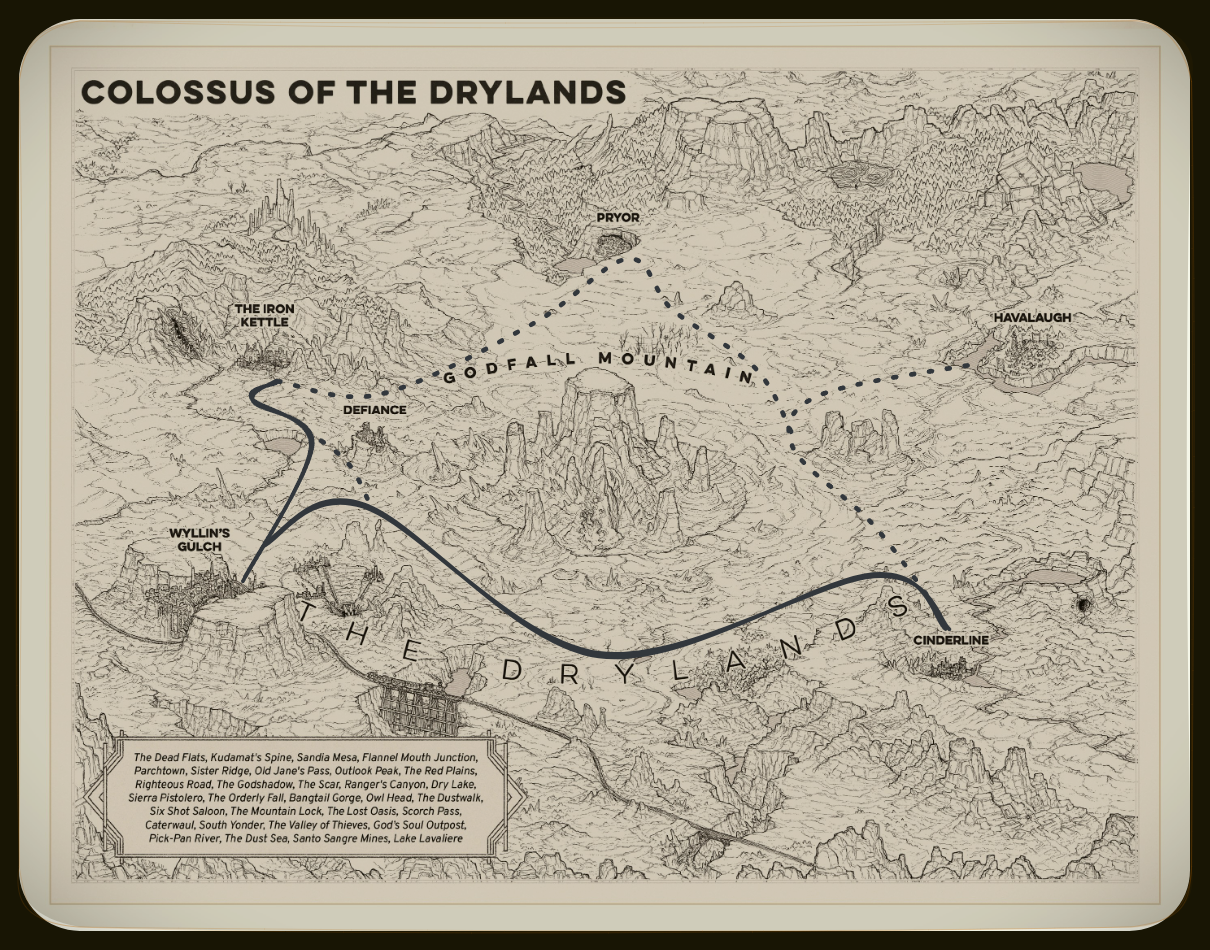
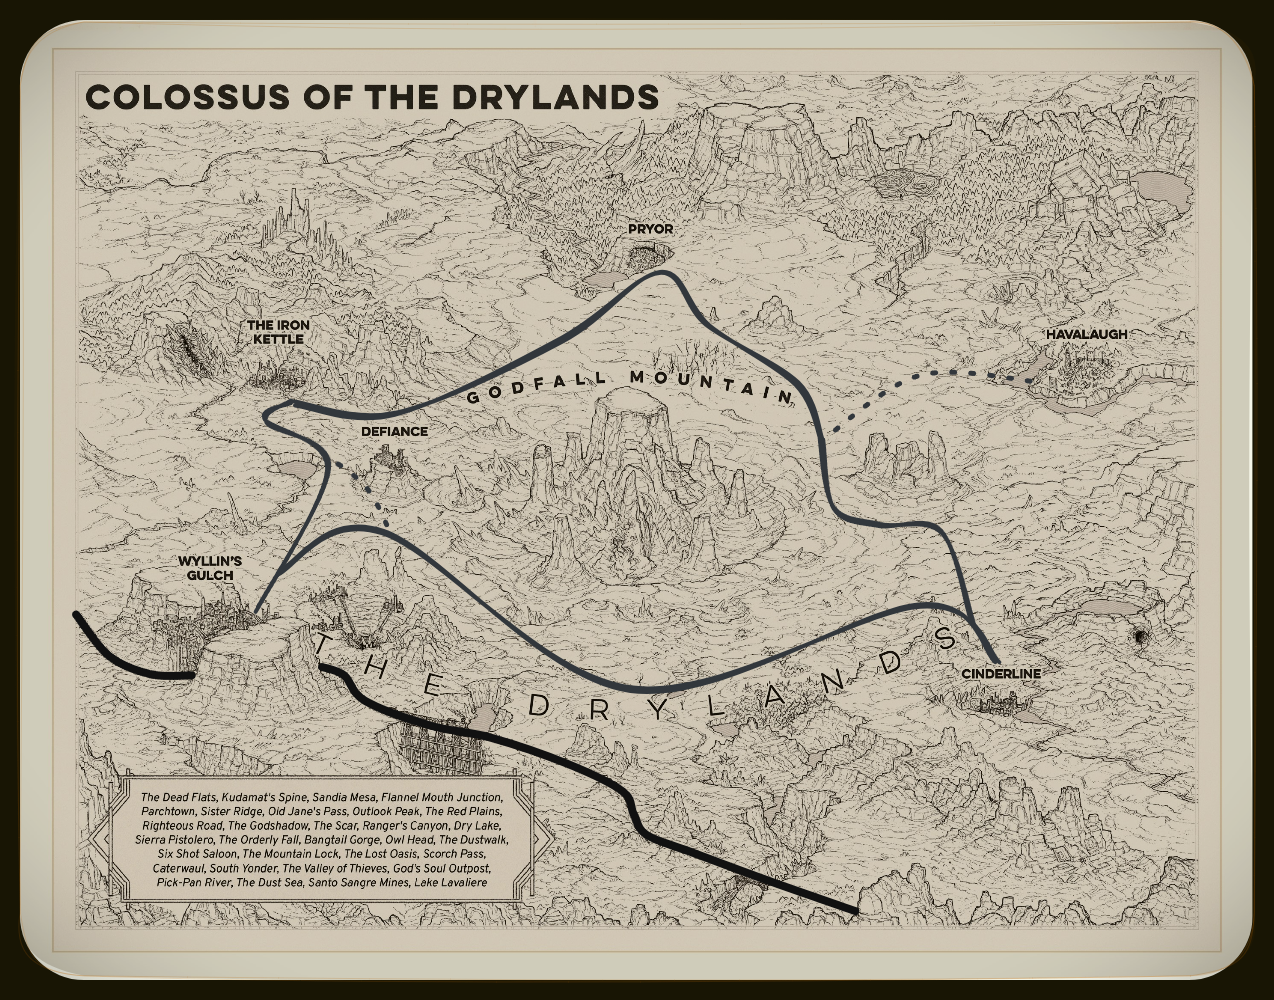
Published multiple files

diff --git a/content/Player Characters/Imke/Köter/Sabotage und Rettungsaktion in Pryor.md b/content/Player Characters/Imke/Köter/Sabotage und Rettungsaktion in Pryor.md
@@ -1,0 +1,17 @@
+---
+{"publish":true,"created":"2025-09-05T01:02:47.139+02:00","modified":"2025-09-05T01:20:23.095+02:00","cssclasses":""}
+---
+
+Jimmy erhielt einen Auftrag von der [[The Drylands/Corporation/Smudgehill Mining Group]], er und ein paar andere Outlaws die sich geraden in [[The Drylands/Major Outposts/Wyllin's Gulch]] befinden sollen eine Lieferung Essentia-Rafinerieteilen und Adamant-Bohrern von dem [[The Drylands/Major Outposts/Der Eisenkessel\|Eisenkessel]] nach [[The Drylands/Major Outposts/Pryor]] zerstören. So soll verhindert werden, dass Pryor unabhängiger von den Essentia Lieferungen von SMG wird und ihr Essentia vielleicht sogar lieber aus dem Eisenkessel beziehen. 
+
+Die 9 Outlaws, die ausgesucht wurden sollen die Lieferung, die sich momentan in einem Lagerhaus befindet, mit 60kg Dynamit unbrauchbar machen. Alle Outlaws kannten sich untereinander nur mit Codenamen, die von der Mining Group verteilt wurden.
+
+Der Smudgehill Mining Group sind die ausgewählten Outlaws jedoch schon länger ein Dorn im Auge und so wollen sie zwei Fliegen mit einer Klappe treffen; Die Outlaws bekommen manipuliertes instabiles Dynamit und werden so unschädlich gemacht und die Mining Group streicht ein fettes Kopfgeld für alle erledigten Outlaws ein. Das Lagerhaus enthielt zwar nie die benannten Raffinerie und Bohrteile, es gehört jedoch der [[The Drylands/Corporation/Iron Tusk Corp.]], ist also akzeptabler Kollateralschaden.
+
+Eigentlich sollte Jimmy bei dem Auftrag aufpassen und schmiere stehen, Ray hat jedoch kurz bevor Jimmy aufbrechen wollte stattdessen Köter losgeschickt. Warum er das getan hat ist nicht ganz klar, aber Jimmy schien mit dieser Entscheidung äußerst unzufrieden zu sein.
+
+Nach der Explosion konnte die Mining Group für 7 der Outlaws das Kopfgeld eintreiben (2 Gefangene, 5 Leichen), wofür sie insgesamt 30 Säcke Gold erhielt. Die Übrigen zwei Outlaws, Codename "Natter" und James "Jimmy" Dow, Codename "Katze", wurden jedoch seit dem "Unglück" nicht mehr gesehen.
+
+Die Mining Group wusste jedoch nichts davon, dass statt Jimmy Köter geschickt wurde, der Auftrag war explizit an Jimmy gerichtet worden. Köter hat die Späher-Rolle von Jimmy übernommen und stand für den Rest schmiere. Köter wurde durch die Explosion nur leicht verletzt und fand den schwer verletzte, aber noch lebendigen, Outlaw, Codename "Natter" im nahegelegenen Fluss. Köter hat ihn zu Natters Lager gebracht, wo ein Clank Mädchen die beiden verarztet hat.
+
+Als Köter wieder bei Ray und den anderen war, hört er nur von weitem einen Schuss. Im Lager findet er einen unglaublich wütenden Ray mit einem rauchenden Revolver in der Hand, Butch der Antworten verlangt und Jimmy mit einem Loch im Kopf auf dem staubigen Boden.

diff --git a/content/Player Characters/Janni/Thomas/Sabotage-job in Pryor.md b/content/Player Characters/Janni/Thomas/Sabotage-job in Pryor.md
@@ -1,0 +1,13 @@
+---
+{"publish":true,"created":"2025-09-05T00:28:15.545+02:00","modified":"2025-09-05T01:16:56.422+02:00","cssclasses":""}
+---
+
+Thomas erhält einen Auftrag von der [[The Drylands/Corporation/Smudgehill Mining Group]], er und ein paar andere Outlaws die sich geraden in [[The Drylands/Major Outposts/Wyllin's Gulch]] befinden sollen eine Lieferung Essentia-Rafinerieteilen und Adamant-Bohrern von dem [[The Drylands/Major Outposts/Der Eisenkessel\|Eisenkessel]] nach [[The Drylands/Major Outposts/Pryor]] zerstören. So soll verhindert werden, dass Pryor unabhängiger von den Essentia Lieferungen von SMG wird und ihr Essentia vielleicht sogar lieber aus dem Eisenkessel beziehen. 
+
+Die 9 Outlaws, die ausgesucht wurden sollen die Lieferung, die sich momentan in einem Lagerhaus befindet, mit 60kg Dynamit unbrauchbar machen. Alle Outlaws kannten sich untereinander nur mit Codenamen, die von der Mining Group verteilt wurden.
+
+Der Smudgehill Mining Group sind die ausgewählten Outlaws jedoch schon länger ein Dorn im Auge und so wollen sie zwei Fliegen mit einer Klappe treffen; Die Outlaws bekommen manipuliertes instabiles Dynamit und werden so unschädlich gemacht und die Mining Group streicht ein fettes Kopfgeld für alle erledigten Outlaws ein. Das Lagerhaus enthielt zwar nie die benannten Raffinerie und Bohrteile, es gehört jedoch der [[The Drylands/Corporation/Iron Tusk Corp.]], ist also akzeptabler Kollateralschaden.
+
+Nach der Explosion konnte die Mining Group für 7 der Outlaws das Kopfgeld eintreiben (2 Gefangene, 5 Leichen), wofür sie insgesamt 30 Säcke Gold erhielt. Die Übrigen zwei Outlaws, ein gewisser James O'Brynei, Codename "Natter" und Codename "Katze", wurden seit dem "Unglück" nicht mehr gesehen.
+
+In Wahrheit hat "Katze" den schwer verletzten James aus dem nahegelegenen Fluss gerettet, sodass beide Überlebt haben. Katze hat James dann zu James Lager gebracht, wo die beiden von Ava verarztet wurden.

diff --git a/content/Player Characters/Janni/Thomas/Kopfgelder.md b/content/Player Characters/Janni/Thomas/Kopfgelder.md
@@ -1,0 +1,25 @@
+---
+{"publish":true,"created":"2025-09-05T00:37:50.336+02:00","modified":"2025-09-05T01:55:07.767+02:00","cssclasses":""}
+---
+
+Auf Thomas sind immer noch diverse Kopfgelder ausgesetzt
+Die meisten davon gelten noch auf seinen alten Namen und vor allem sein altes Gesicht
+- [[The Drylands/Corporation/Iron Tusk Corp.]] 
+	- 6247,67 Sack Gold Strafe
+	- Zerstörung von Firmeneigentum, Verletzung von Gewerkschaftssatzung, illegaler Abbau von Essentia, Unterschlagung von Gewerkschaftsabgaben, Verletzung von Vorgaben zur Arbeitssicherheit, Mutwille Gefährdung von Firmeneigentum, Mutwillige Gefährdung von Firmenpersonal, Nichteinhalten der Pausenzeiten
+	- 10 Sack Gold Belohnung
+- [[The Drylands/Major Outposts/Der Eisenkessel\|Eisenkessel]]
+	- Tod durch Hängen
+	- Mord an einem Sherif, Beihilfe zur Flucht
+	- 15 Sack Gold Belohnung
+- [[The Drylands/Major Outposts/Wyllin's Gulch]]
+	- 16 Jahre Gefängnis
+	- Mord, Industriesabotage, Erregung öffentlicher Unruhe, Zerstörung von Eigentum, Bewaffneter Raubüberfall, Körperverletzung, versuchter Betrug
+	- 10 Sack Gold Belohnung
+- [[The Drylands/Major Outposts/The Cinderline\|Cinderline]]
+	- 30 Sack Gold Strafe, 6 Monate Gefängnis
+	- Versuchte Industriesabotage, Diebstahl, gefährliche Körperverletzung, Betrug
+	- 7 Sack Gold Belohnung
+- [[The Drylands/Major Outposts/Pryor]]
+	- Vogelfrei
+	- Diebstahl, Erpressung, Androhung tödlicher Gewalt

diff --git a/content/Player Characters/Imke/Köter/Dust Dogs.md b/content/Player Characters/Imke/Köter/Dust Dogs.md
@@ -1,6 +1,7 @@
 ---
-{"publish":true,"created":"2025-08-15T17:24:09.934+02:00","modified":"2025-08-15T13:56:40.750+02:00","cssclasses":""}
+{"publish":true,"created":"2025-09-05T00:27:13.973+02:00","modified":"2025-09-05T00:27:55.165+02:00","cssclasses":""}
 ---
 
 Sturmgeister in Form von Wölfen, jagen in Rudeln und verursachen kleine Sandstürme
 Werden von den Einwohnern der Drylands of als Boten [[Player Characters/Imke/Köter/Das Auge des Sturms\|des Auge des Sturms]] gesehen.
+Sie werden häufig mit der [[The Drylands/Wissenswertes/Sagen und Legenden#Die Sage vom Auge des Sturms\|Sage vom Auge des Sturms]] in verbindung gebracht

diff --git a/content/index.md b/content/index.md
@@ -1,5 +1,5 @@
 ---
-{"publish":true,"title":"Willkommen auf dem Wiki","created":"2025-08-13T20:49:31.238+02:00","modified":"2025-08-17T00:19:20.167+02:00","cssclasses":""}
+{"publish":true,"title":"Willkommen auf dem Wiki","created":"2025-08-17T00:19:20.167+02:00","modified":"2025-08-17T00:19:20.167+02:00","cssclasses":""}
 ---
 
 Hier findet ihr alle (die meisten) wichtigen Infos zur Daggerheart Kampagne "Colossus of the Drylands". Das meiste davon wir in den [[The Drylands/Wissenswertes/Drylands]] als Allgemeinwissen betrachtet, je mehr Dinge ihr entdeckt, desto ausgefallenere Seiten werden hier hinzugefügt.

diff --git a/content/Player Characters/index.md b/content/Player Characters/index.md
@@ -1,5 +1,6 @@
 ---
-{"publish":true,"title":"Player Characters","created":"2025-08-14T00:39:13.467+02:00","modified":"2025-08-14T00:59:21.869+02:00","cssclasses":""}
+{"publish":true,"title":"Player Characters","created":"2025-08-14T00:38:49.198+02:00","modified":"2025-09-05T01:56:24.969+02:00","cssclasses":""}
 ---
 
-Öffnet nur eure eigenen Ordner!
+# **Öffnet nur eure eigenen Ordner!**
+![[z_files/the-original-you-might-get-shot-sign-from-the-toledo-zoo-v0-ri0g5jfzcujf1.jpg]]

diff --git a/content/The Drylands/Wissenswertes/Drylands.md b/content/The Drylands/Wissenswertes/Drylands.md
@@ -1,5 +1,5 @@
 ---
-{"publish":true,"aliases":"Die Drylands die Drylands","description":"Die Drylands","created":"2025-08-13T20:49:21.305+02:00","modified":"2025-08-27T15:52:59.507+02:00","cssclasses":""}
+{"publish":true,"aliases":"Die Drylands die Drylands","description":"Die Drylands","created":"2025-08-27T15:52:59.507+02:00","modified":"2025-08-27T15:52:59.507+02:00","cssclasses":""}
 ---
 
 

diff --git a/content/The Drylands/index.md b/content/The Drylands/index.md
@@ -1,5 +1,5 @@
 ---
-{"publish":true,"title":"The Drylands","created":"2025-08-13T20:49:21.385+02:00","modified":"2025-08-13T20:47:41.043+02:00","cssclasses":""}
+{"publish":true,"title":"The Drylands","created":"2025-08-11T20:18:58.248+02:00","modified":"2025-08-13T20:47:41.043+02:00","cssclasses":""}
 ---
 
 ### Übersicht über die Orte, Personen und Frationen der Drylands

diff --git a/content/The Drylands/Major Outposts/The Cinderline.md b/content/The Drylands/Major Outposts/The Cinderline.md
@@ -1,5 +1,5 @@
 ---
-{"publish":true,"aliases":"Cinderline die Cinderline","created":"2025-08-13T20:49:21.713+02:00","modified":"2025-08-27T15:49:36.251+02:00","cssclasses":""}
+{"publish":true,"aliases":"Cinderline die Cinderline","created":"2025-08-27T15:49:36.251+02:00","modified":"2025-08-27T15:49:36.251+02:00","cssclasses":""}
 ---
 
 

diff --git a/content/Changelog.md b/content/Changelog.md
@@ -1,5 +1,5 @@
 ---
-{"publish":true,"created":"2025-08-17T00:16:13.045+02:00","modified":"2025-08-27T16:19:05.849+02:00","cssclasses":""}
+{"publish":true,"created":"2025-08-27T16:19:05.612+02:00","modified":"2025-08-27T16:19:05.849+02:00","cssclasses":""}
 ---
 
 - 27.8.25 - Added: [[The Drylands/Corporation/Ludwig Pharmazeutika]]

diff --git a/content/The Drylands/Major Outposts/Der Eisenkessel.md b/content/The Drylands/Major Outposts/Der Eisenkessel.md
@@ -1,5 +1,5 @@
 ---
-{"publish":true,"aliases":"Eisenkessel","created":"2025-08-13T20:49:21.515+02:00","modified":"2025-08-17T00:56:16.074+02:00","cssclasses":""}
+{"publish":true,"aliases":"Eisenkessel","created":"2025-08-17T00:56:16.026+02:00","modified":"2025-08-17T00:56:16.074+02:00","cssclasses":""}
 ---
 
 **Die Fabrik**

diff --git a/content/Player Characters/Hiro/Camilla Helleborn Primrose von Magnolica/Camilla.md b/content/Player Characters/Hiro/Camilla Helleborn Primrose von Magnolica/Camilla.md
@@ -1,5 +1,5 @@
 ---
-{"publish":true,"created":"2025-08-14T00:13:13.249+02:00","modified":"2025-08-23T16:09:04.826+02:00","cssclasses":""}
+{"publish":true,"created":"2025-08-23T16:09:04.057+02:00","modified":"2025-08-23T16:09:04.826+02:00","cssclasses":""}
 ---
 
 ## Vor dem Essentia Rausch
